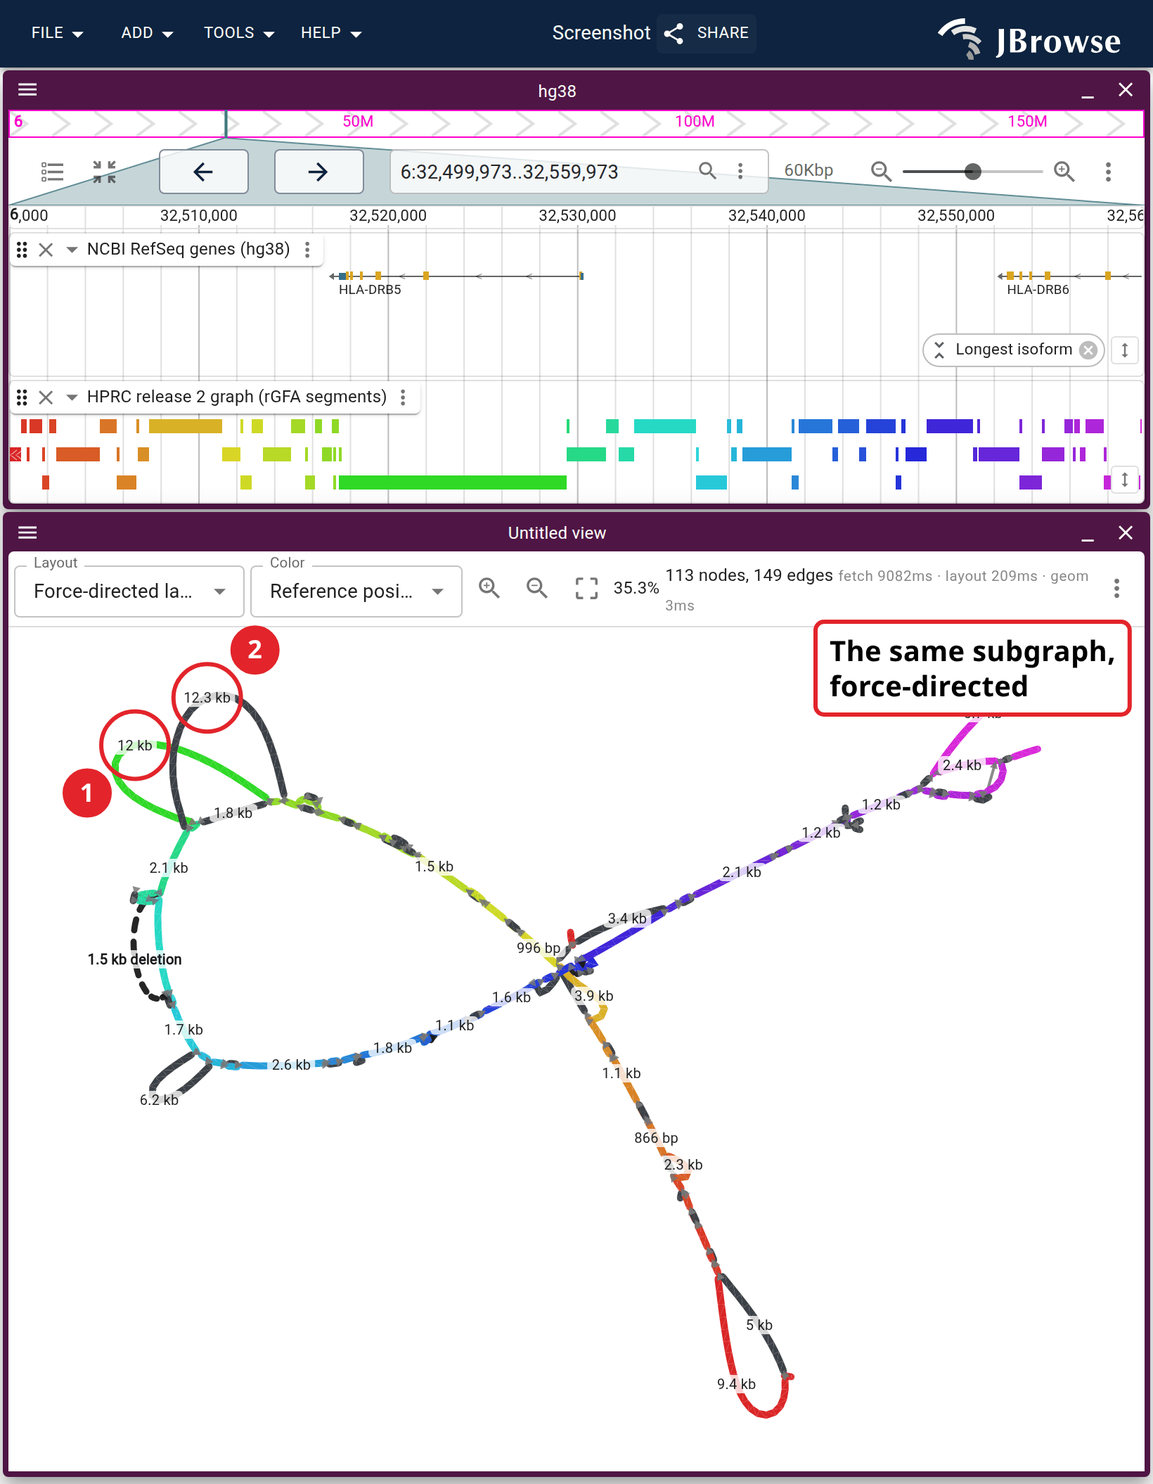
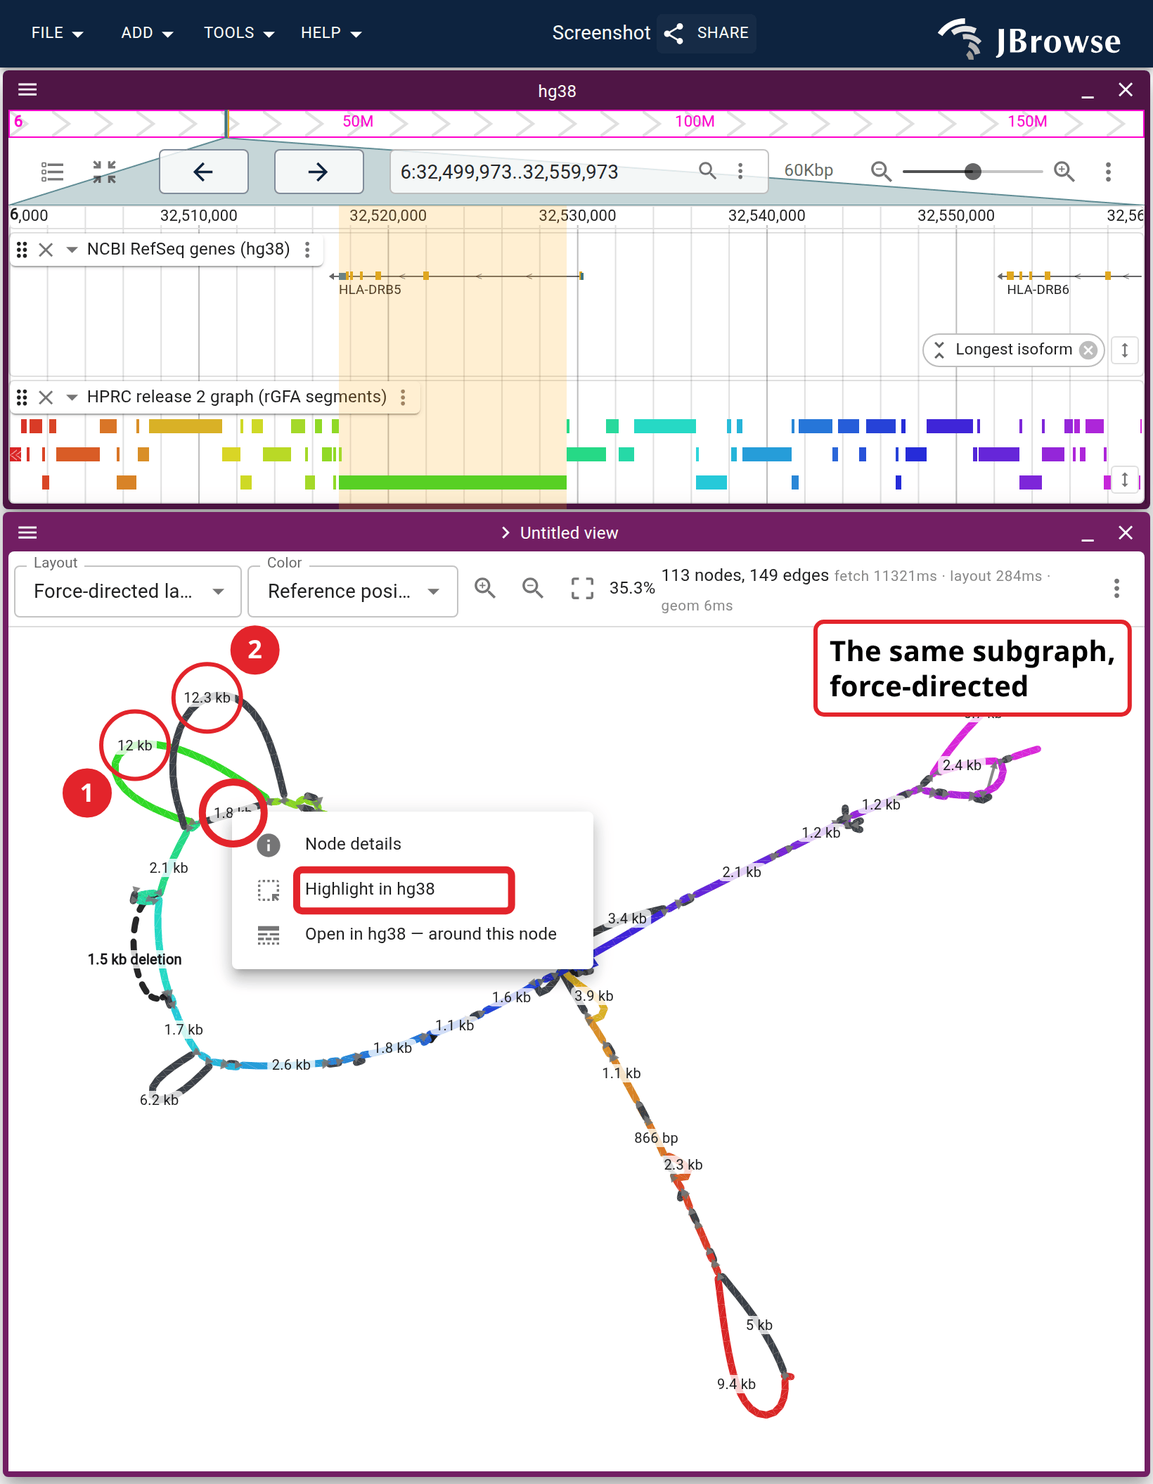
docs(figures): fold the HPRC node-menu figure into the layout pair
Reviewer: "may not need standalone figure combine with
pangenome/hprc_mhc_anchored". hprc_node_menu was the same window, the
same two tracks and the same force drawing as that pair's left half, with
a menu, one ring and a highlight band on top, so the HPRC tutorial drew
the MHC subgraph twice.

Those three things now live on the force half: it right-clicks the 1.8 kb
HG01433.2 allele, clicks Highlight in hg38, then right-clicks again so
the frame carries the menu over the band it already wrote. The node is
named through the view's nodePositions rather than measured, so a layout
change fails the capture instead of clicking empty canvas. The ring is
deliberately unnumbered, since 1 and 2 are the landmark pair shared
across the seam.

The spec, the PNG and the tutorial's second figure are gone; the section
that carried it points back at the layout figure, whose caption states
what the band is.

screenshot-review.json carries whatever verdicts were written in this
window, the reviewer's included.

Claude-Session: https://claude.ai/code/session_01TcfdgrcPWPN7HSGHfcRjTg

Changed region(s): [[0.0, 0.1232, 1.0, 1.0], [0.1555, 0.5237, 0.5287, 0.6777]]

diff --git a/website/scripts/specs/graph.ts b/website/scripts/specs/graph.ts
@@ -10,7 +10,11 @@ import { fileURLToPath } from 'node:url'
 import { sessionSpec } from '../screenshot-spec-helpers.ts'
 import { ECOLI_DEMO_BASE, usingLocalDemo } from './demoBase.ts'
 
-import type { Annotation, ScreenshotSpec } from '../screenshot-spec-types.ts'
+import type {
+  Annotation,
+  ScreenshotAction,
+  ScreenshotSpec,
+} from '../screenshot-spec-types.ts'
 
 // The url the tracked fixture configs hardcode, and what ECOLI_DEMO_BASE
 // replaces in them when it is set.
@@ -287,9 +291,10 @@ const PATHS_REGION = {
 // pangenome/rgfa_hover_sync` prints the ids a cut contains.
 const HOVERED_ALLELE = 's2037'
 
-// The off-reference allele pangenome/hprc_node_menu right-clicks, named rather
-// than measured — see HOVERED_ALLELE. `node scripts/probe-graph-nodes.ts
-// pangenome/hprc_node_menu` prints the cut's ids with their lengths and ranks.
+// The off-reference allele the force half of pangenome/hprc_mhc_anchored
+// right-clicks, named rather than measured — see HOVERED_ALLELE. `node
+// scripts/probe-graph-nodes.ts pangenome/hprc_mhc_layout_force` prints the
+// cut's ids with their lengths and ranks.
 //
 // It is 1,775 bp of HG01433 hap 2 (`CM086511.1:32,520,440-32,522,215` in the
 // links index), and the two backbone segments it hangs off are s101144, ending
@@ -298,17 +303,14 @@ const HOVERED_ALLELE = 's2037'
 // writes into the linear view. That is also, near exactly, HLA-DRB5
 // (chr6:32,517,353-32,530,287), the gene present only on DR51 haplotypes.
 //
-// Which is why the frame needs the callout below (review: "it looks like this is
+// Which is why the caption has to say it (review: "it looks like this is
 // highlighting a 'black' node, instead of the green one, which is, afaict, the
 // reference path"). Under the reference-position ramp black means "no reference
 // position", i.e. this IS the allele the figure is about, and the green 12 kb
 // node beside it is the reference segment the highlight lands on. Nothing in the
-// frame joined the two, so a ring on a black node over a band 12 kb wide read as
-// the wrong node being ringed.
+// frame joins the two, so a ring on a black node over a band 12 kb wide reads as
+// the wrong node being ringed unless the words are there.
 const HPRC_ALLELE = 's318599'
-const HPRC_ALLELE_LABEL =
-  'HG01433.2 allele: 1.8 kb\nwhere hg38 has 12 kb (HLA-DRB5)'
-
 // K12's genes, so the linear half of a launch figure says which genes the
 // clicked segment covers rather than being a lane of anonymous blocks. Hosted
 // beside the graph indexes; the fixture config carries only the assembly.
@@ -1716,9 +1718,20 @@ function mhcLayoutPartSpecs(): ScreenshotSpec[] {
     // offset would land on the drawing in one of them.
     labelOffset: { dx: number; dy: number },
     label: string,
+    // The force half additionally carries the right-click route, which used to
+    // be pangenome/hprc_node_menu, a whole second capture of this same window
+    // and this same drawing (reviewer: "may not need standalone figure combine
+    // with pangenome/hprc_mhc_anchored"). What it added over this half was the
+    // menu, one ring and the band the menu leaves behind, so it is those three
+    // things rather than a figure.
+    nodeMenu?: {
+      actions: ScreenshotAction[]
+      annotations: Annotation[]
+    },
   ): ScreenshotSpec => ({
     mode: 'url',
     name,
+    ...(nodeMenu ? { actions: nodeMenu.actions } : {}),
     url: sessionSpec(HPRC_CONFIG, {
       views: [
         {
@@ -1803,6 +1816,7 @@ function mhcLayoutPartSpecs(): ScreenshotSpec[] {
         maxWidth: 300,
         fontSize: 20,
       },
+      ...(nodeMenu?.annotations ?? []),
     ],
   })
   return [
@@ -1821,6 +1835,42 @@ function mhcLayoutPartSpecs(): ScreenshotSpec[] {
         dy: -276,
       },
       'The same subgraph, force-directed',
+      // THE RIGHT-CLICK ROUTE, folded in from the deleted hprc_node_menu.
+      // `Highlight in hg38` writes the node's reference interval into the
+      // linear view's own highlight list, where it stays — which is what lets
+      // one frame carry both the menu and its result: click the item, then
+      // right-click the same node again, so the menu stands over a band it
+      // already left behind. The node is NAMED (`anchor: { graphNode }`,
+      // resolved through the view's nodePositions), so a layout change fails
+      // the capture rather than clicking empty canvas.
+      {
+        actions: [
+          // the auto-fit has to have finished before the anchor means anything
+          { type: 'delay', ms: 2000 },
+          { type: 'rightclick', anchor: { view: 1, graphNode: HPRC_ALLELE } },
+          { type: 'waitForText', text: 'Highlight in hg38' },
+          { type: 'click', text: 'Highlight in hg38' },
+          { type: 'delay', ms: 1500 },
+          { type: 'rightclick', anchor: { view: 1, graphNode: HPRC_ALLELE } },
+          { type: 'waitForText', text: 'Node details' },
+          { type: 'delay', ms: 500 },
+        ],
+        annotations: [
+          // which node the menu was opened on: a context menu opens AT the
+          // cursor, so it covers the thing it was opened on, and a force
+          // drawing has no row label to fall back on. Unnumbered, unlike the
+          // two landmark badges — it is a third node and the caption names it
+          // rather than pairing it across the seam.
+          {
+            type: 'circle',
+            anchor: { view: 1, graphNode: HPRC_ALLELE },
+            radius: 22,
+          },
+          // the item that produced the band. Without it the frame holds a menu
+          // and a highlight with nothing joining them.
+          { type: 'box', anchor: { text: 'Highlight in hg38' } },
+        ],
+      },
     ),
     // the one-hop default cut brings in more nodes than the old None cut, so
     // the anchored pane grew past the 775 this used to need. Its label goes in
@@ -3590,109 +3640,16 @@ export const graphSpecs: ScreenshotSpec[] = [
     ],
   },
 
-  // The other half of the way out, on the graph where the contributing
-  // assemblies are NOT loadable: right-clicking one haplotype's allele. Its own
-  // coordinate is exact and unopenable (no session loads 464 haplotypes as
-  // assemblies), so what the menu offers is the GRCh38 interval the allele
-  // attaches to, which is the answer the HPRC tutorial's round trip needs.
-  //
-  // One frame holding both the menu and its result. Review: "need to be able to
-  // just highlight lineargenomeview coords", then "make into a single
-  // screenshot instead of two screenshots potentially where highlight and right
-  // click menu is visible". Hovering a node already draws a band in the linear
-  // view, but a hover band lives as long as the pointer does; **Highlight in
-  // hg38** writes the same interval into the view's own highlight list, where it
-  // stays. That persistence is what lets one frame carry both: the actions click
-  // the item, then right-click the same node again, so the menu is open over a
-  // band it already left behind. Two stacked frames paid for the whole app
-  // chrome twice to say that.
-  //
-  // The force-directed drawing, per review ("please change to force directed
-  // bandage graph"). The right-clicked node is NAMED rather than measured
-  // (`anchor: { graphNode }`, resolved through the view's own nodePositions), so
-  // the layout, the pane size and the tracks above the graph can all move
-  // without silently pointing the click at empty canvas. An anchor that resolves
-  // to nothing throws, and the waitForText below fails the capture rather than
-  // committing a figure of an unopened menu.
-  {
-    mode: 'url',
-    name: 'pangenome/hprc_node_menu',
-    url: sessionSpec(HPRC_CONFIG, {
-      views: [
-        {
-          type: 'LinearGenomeView',
-          assembly: 'hg38',
-          loc: 'chr6:32,500,000-32,560,000',
-          tracks: [
-            {
-              trackId: 'hg38_ncbiRefSeq_ucsc',
-              type: 'LinearBasicDisplay',
-              // compact, as in the other HPRC figures: two HLA-DRB genes do not
-              // need a lane of their own, and every px here is one the graph
-              // rows under it do not get
-              geneGlyphMode: 'longestCoding',
-              displayMode: 'compact',
-              height: 60,
-            },
-            hprcSegmentsLane(MHC_REGION),
-          ],
-        },
-        {
-          type: 'GraphGenomeView',
-          loadedTrackId: SEGMENTS_TRACK,
-          loadedRegion: MHC_REGION,
-          colorScheme: 'reference-position',
-        },
-      ],
-    }),
-    readySelector: TOOLBAR_READY,
-    readyTimeout: 90000,
-    settleMs: 3000,
-    viewportWidth: 1000,
-    viewportHeight: 1100,
-    actions: [
-      // the auto-fit has to have finished before the anchor means anything
-      { type: 'delay', ms: 2000 },
-      { type: 'rightclick', anchor: { view: 1, graphNode: HPRC_ALLELE } },
-      { type: 'waitForText', text: 'Highlight in hg38' },
-      { type: 'click', text: 'Highlight in hg38' },
-      // the band is written into the view's highlight list, and the menu closes
-      { type: 'delay', ms: 1500 },
-      // the same node again, so the frame carries the menu and the band it left
-      { type: 'rightclick', anchor: { view: 1, graphNode: HPRC_ALLELE } },
-      { type: 'waitForText', text: 'Node details' },
-      { type: 'delay', ms: 500 },
-    ],
-    // The item that produced the band, boxed. Without it the frame holds a menu
-    // and a highlight with nothing joining them, and which of three items did it
-    // is a guess — the same complaint the launch figures drew in review. The ring
-    // says which node: a context menu opens AT the cursor, so it covers the thing
-    // it was opened on, and in a force drawing there is no row label to fall back
-    // on.
-    //
-    // The label is what the ring alone could not say (see HPRC_ALLELE): both
-    // numbers are the graph's own, so the frame states that a 1.8 kb node ringed
-    // in black produced a 12 kb band, rather than leaving the mismatch to be read
-    // as the wrong node being ringed. Placed up and left of the node, which is
-    // the empty corner of this drawing; the menu takes the other side.
-    annotations: [
-      {
-        type: 'circle',
-        anchor: { view: 1, graphNode: HPRC_ALLELE },
-        radius: 22,
-      },
-      {
-        type: 'text',
-        text: HPRC_ALLELE_LABEL,
-        anchor: { view: 1, graphNode: HPRC_ALLELE },
-        dx: -120,
-        dy: -170,
-        maxWidth: 230,
-        fontSize: 16,
-      },
-      { type: 'box', anchor: { text: 'Highlight in hg38' } },
-    ],
-  },
+  // pangenome/hprc_node_menu was here and is DELETED (reviewer: "may not need
+  // standalone figure combine with pangenome/hprc_mhc_anchored"). It was the
+  // same window, the same tracks and the same force drawing as that pair's left
+  // half, with a menu, one ring and the band the menu leaves behind on top —
+  // so those three things moved onto the half itself (see mhcLayoutPartSpecs)
+  // and the second capture of the MHC subgraph went away. The claim they carry
+  // is unchanged: `Highlight in hg38` on a 1.8 kb HG01433.2 allele writes the
+  // 12 kb GRCh38 backbone segment it attaches across, which is HLA-DRB5,
+  // because an off-reference node is drawn over the reference it replaces and
+  // never over its own length.
 
   // The way back out of the graph, on the one fixture where it can do more than
   // return to the reference: all five strains loaded as assemblies, so the graph

diff --git a/website/src/lib/galleryLinks.generated.ts b/website/src/lib/galleryLinks.generated.ts
@@ -280,7 +280,6 @@ export const specSessionUrls: Record<string, string> = {
   "pangenome/hprc_lpa_kiv2": "?config=test_data/graphgenomeview/hprc.json&session=spec-%7B%22views%22%3A%5B%7B%22type%22%3A%22LinearGenomeView%22%2C%22assembly%22%3A%22hg38%22%2C%22loc%22%3A%22chr6%3A160%2C525%2C000-160%2C655%2C000%22%2C%22tracks%22%3A%5B%7B%22trackId%22%3A%22hg38_ncbiRefSeq_ucsc%22%2C%22type%22%3A%22LinearBasicDisplay%22%2C%22geneGlyphMode%22%3A%22longestCoding%22%2C%22displayMode%22%3A%22compact%22%2C%22height%22%3A70%7D%2C%7B%22trackId%22%3A%22hprc_minigraph_bubbles%22%2C%22type%22%3A%22LinearBasicDisplay%22%2C%22height%22%3A80%7D%2C%7B%22trackId%22%3A%22hprc_minigraph_segments%22%2C%22type%22%3A%22LinearBasicDisplay%22%2C%22showLabels%22%3A%22none%22%2C%22heightMode%22%3A%22grow%22%2C%22color%22%3A%22jexl%3Aget(feature%2C'rank')%3E0%20%3F%20'rgb(60%2C65%2C72)'%20%3A%20'hsl('%20%2B%20min(300%2C%20max(0%2C%20((get(feature%2C'start')%2Bget(feature%2C'end'))%2F2%20-%20160525000)%20%2F%20130000%20*%20300))%20%2B%20'%2C70%25%2C50%25)'%22%7D%5D%7D%2C%7B%22type%22%3A%22GraphGenomeView%22%2C%22loadedTrackId%22%3A%22hprc_minigraph_segments%22%2C%22loadedRegion%22%3A%7B%22refName%22%3A%22chr6%22%2C%22assemblyName%22%3A%22hg38%22%2C%22start%22%3A160525000%2C%22end%22%3A160655000%7D%2C%22layoutMode%22%3A%22force%22%2C%22colorScheme%22%3A%22reference-position%22%7D%5D%7D&sessionName=Screenshot",
   "pangenome/hprc_graph_vs_callset": "?config=test_data/graphgenomeview/hprc.json&session=spec-%7B%22views%22%3A%5B%7B%22type%22%3A%22LinearGenomeView%22%2C%22assembly%22%3A%22hg38%22%2C%22loc%22%3A%22chr6%3A32%2C510%2C000-32%2C600%2C000%22%2C%22highlight%22%3A%5B%226%3A32%2C514%2C842-32%2C529%2C438%22%5D%2C%22tracks%22%3A%5B%7B%22trackId%22%3A%22hg38_ncbiRefSeq_ucsc%22%2C%22type%22%3A%22LinearBasicDisplay%22%2C%22geneGlyphMode%22%3A%22longestCoding%22%2C%22displayMode%22%3A%22compact%22%2C%22height%22%3A60%7D%2C%7B%22trackId%22%3A%22hprc_minigraph_segments%22%2C%22type%22%3A%22LinearBasicDisplay%22%2C%22showLabels%22%3A%22none%22%2C%22heightMode%22%3A%22grow%22%2C%22color%22%3A%22jexl%3Aget(feature%2C'rank')%3E0%20%3F%20'rgb(60%2C65%2C72)'%20%3A%20'hsl('%20%2B%20min(300%2C%20max(0%2C%20((get(feature%2C'start')%2Bget(feature%2C'end'))%2F2%20-%2032510000)%20%2F%2090000%20*%20300))%20%2B%20'%2C70%25%2C50%25)'%22%7D%2C%7B%22trackId%22%3A%22hprc2_wave_grch38%22%2C%22type%22%3A%22LinearMultiSampleVariantDisplay%22%2C%22height%22%3A340%2C%22jexlFilters%22%3A%5B%22jexl%3Afeature.INFO.LV%5B0%5D%3D%3D0%20%26%26%20alleleLength(feature)%3E%3D50%22%5D%2C%22runClustering%22%3Atrue%7D%5D%7D%2C%7B%22type%22%3A%22GraphGenomeView%22%2C%22loadedTrackId%22%3A%22hprc_minigraph_segments%22%2C%22loadedRegion%22%3A%7B%22refName%22%3A%22chr6%22%2C%22assemblyName%22%3A%22hg38%22%2C%22start%22%3A32510000%2C%22end%22%3A32600000%7D%2C%22colorScheme%22%3A%22reference-position%22%7D%5D%7D&sessionName=Screenshot",
   "pangenome/rgfa_hover_sync": "?config=test_data/graphgenomeview/config.json&session=spec-%7B%22sessionTracks%22%3A%5B%7B%22type%22%3A%22FeatureTrack%22%2C%22trackId%22%3A%22K12_genes%22%2C%22name%22%3A%22K12%20genes%22%2C%22assemblyNames%22%3A%5B%22K12%22%5D%2C%22adapter%22%3A%7B%22type%22%3A%22Gff3TabixAdapter%22%2C%22gffGzLocation%22%3A%7B%22uri%22%3A%22https%3A%2F%2Fjbrowse.org%2Fdemos%2Fecoli_pangenome%2FK12.gff.gz%22%7D%2C%22index%22%3A%7B%22location%22%3A%7B%22uri%22%3A%22https%3A%2F%2Fjbrowse.org%2Fdemos%2Fecoli_pangenome%2FK12.gff.gz.tbi%22%7D%7D%7D%7D%2C%7B%22type%22%3A%22FeatureTrack%22%2C%22trackId%22%3A%22ecoli_minigraph_segments%22%2C%22name%22%3A%22minigraph%20graph%20segments%20(rGFA)%22%2C%22assemblyNames%22%3A%5B%22K12%22%5D%2C%22adapter%22%3A%7B%22type%22%3A%22RgfaTabixAdapter%22%2C%22uri%22%3A%22https%3A%2F%2Fjbrowse.org%2Fdemos%2Fecoli_pangenome%2Fecoli_minigraph%22%7D%2C%22displayDefaults%22%3A%7B%22color%22%3A%22jexl%3Aget(feature%2C'rank')%3D%3D0%3F'rgb(52%2C152%2C219)'%3A'rgb(237%2C137%2C44)'%22%7D%7D%5D%2C%22views%22%3A%5B%7B%22type%22%3A%22LinearGenomeView%22%2C%22assembly%22%3A%22K12%22%2C%22loc%22%3A%22chr%3A1%2C088%2C000-1%2C104%2C000%22%2C%22tracks%22%3A%5B%7B%22trackId%22%3A%22K12_genes%22%2C%22type%22%3A%22LinearBasicDisplay%22%2C%22height%22%3A70%7D%2C%7B%22trackId%22%3A%22ecoli_minigraph_segments%22%2C%22type%22%3A%22LinearBasicDisplay%22%2C%22height%22%3A80%2C%22color%22%3A%22jexl%3Aget(feature%2C'rank')%3E0%20%3F%20'rgb(60%2C65%2C72)'%20%3A%20'hsl('%20%2B%20min(300%2C%20max(0%2C%20((get(feature%2C'start')%2Bget(feature%2C'end'))%2F2%20-%201088000)%20%2F%2016000%20*%20300))%20%2B%20'%2C70%25%2C50%25)'%22%7D%5D%7D%2C%7B%22type%22%3A%22GraphGenomeView%22%2C%22loadedTrackId%22%3A%22ecoli_minigraph_segments%22%2C%22loadedRegion%22%3A%7B%22refName%22%3A%22chr%22%2C%22assemblyName%22%3A%22K12%22%2C%22start%22%3A1088000%2C%22end%22%3A1104000%7D%2C%22colorScheme%22%3A%22reference-position%22%7D%5D%7D&sessionName=Screenshot",
-  "pangenome/hprc_node_menu": "?config=test_data/graphgenomeview/hprc.json&session=spec-%7B%22views%22%3A%5B%7B%22type%22%3A%22LinearGenomeView%22%2C%22assembly%22%3A%22hg38%22%2C%22loc%22%3A%22chr6%3A32%2C500%2C000-32%2C560%2C000%22%2C%22tracks%22%3A%5B%7B%22trackId%22%3A%22hg38_ncbiRefSeq_ucsc%22%2C%22type%22%3A%22LinearBasicDisplay%22%2C%22geneGlyphMode%22%3A%22longestCoding%22%2C%22displayMode%22%3A%22compact%22%2C%22height%22%3A60%7D%2C%7B%22trackId%22%3A%22hprc_minigraph_segments%22%2C%22type%22%3A%22LinearBasicDisplay%22%2C%22showLabels%22%3A%22none%22%2C%22heightMode%22%3A%22grow%22%2C%22color%22%3A%22jexl%3Aget(feature%2C'rank')%3E0%20%3F%20'rgb(60%2C65%2C72)'%20%3A%20'hsl('%20%2B%20min(300%2C%20max(0%2C%20((get(feature%2C'start')%2Bget(feature%2C'end'))%2F2%20-%2032500000)%20%2F%2060000%20*%20300))%20%2B%20'%2C70%25%2C50%25)'%22%7D%5D%7D%2C%7B%22type%22%3A%22GraphGenomeView%22%2C%22loadedTrackId%22%3A%22hprc_minigraph_segments%22%2C%22loadedRegion%22%3A%7B%22refName%22%3A%22chr6%22%2C%22assemblyName%22%3A%22hg38%22%2C%22start%22%3A32500000%2C%22end%22%3A32560000%7D%2C%22colorScheme%22%3A%22reference-position%22%7D%5D%7D&sessionName=Screenshot",
   "pangenome/rgfa_launch_out_menu": "?config=test_data/graphgenomeview/ecoli_pangenome.json&session=spec-%7B%22views%22%3A%5B%7B%22id%22%3A%22launch_out_graph%22%2C%22type%22%3A%22GraphGenomeView%22%2C%22loadedTrackId%22%3A%22ecoli_minigraph_segments%22%2C%22loadedRegion%22%3A%7B%22refName%22%3A%22chr%22%2C%22assemblyName%22%3A%22K12%22%2C%22start%22%3A4400000%2C%22end%22%3A4450000%7D%2C%22layoutMode%22%3A%22force%22%2C%22colorScheme%22%3A%22stable-rank%22%7D%5D%7D&sessionName=Screenshot",
   "pangenome/rgfa_strain_launch": "?config=test_data/graphgenomeview/ecoli_pangenome.json&session=spec-%7B%22views%22%3A%5B%7B%22id%22%3A%22pks_graph%22%2C%22type%22%3A%22GraphGenomeView%22%2C%22loadedTrackId%22%3A%22ecoli_minigraph_segments%22%2C%22loadedRegion%22%3A%7B%22refName%22%3A%22chr%22%2C%22assemblyName%22%3A%22K12%22%2C%22start%22%3A2056000%2C%22end%22%3A2064000%7D%2C%22layoutMode%22%3A%22force%22%2C%22colorScheme%22%3A%22stable-rank%22%7D%5D%7D&sessionName=Screenshot",
   "cookbook_color_by_strand": "?config=test_data/config_demo.json&session=spec-%7B%22views%22%3A%5B%7B%22type%22%3A%22LinearGenomeView%22%2C%22assembly%22%3A%22hg38%22%2C%22loc%22%3A%22chr17%3A7%2C400%2C000-7%2C700%2C000%22%2C%22tracks%22%3A%5B%7B%22trackId%22%3A%22ncbi_refseq_109_hg38%22%2C%22height%22%3A260%2C%22color%22%3A%22jexl%3Afeature.strand%3D%3D1%3F'%231f77b4'%3A'%23d62728'%22%7D%5D%7D%5D%7D&sessionName=Screenshot",

diff --git a/website/scripts/probe-graph-nodes.ts b/website/scripts/probe-graph-nodes.ts
@@ -2,7 +2,7 @@
 /**
  * probe-graph-nodes.ts — dump the nodes a GraphGenomeView spec actually draws.
  *
- *   node scripts/probe-graph-nodes.ts pangenome/hprc_node_menu [--view=1]
+ *   node scripts/probe-graph-nodes.ts pangenome/hprc_mhc_layout_force [--view=1]
  *
  * A graph is one canvas, so a spec that clicks/hovers a node has to name it
  * (`anchor: { graphNode }`). Which ids the cut contains is a property of the

diff --git a/website/docs/tutorials/pangenome_hprc.md b/website/docs/tutorials/pangenome_hprc.md
@@ -315,7 +315,7 @@ The [guide](/docs/user_guides/graph_genome_view#three-layouts) sets out what the
 three modes put on each axis. What that costs at this scale is the same MHC
 class II window drawn both ways:
 
-<Figure caption="One MHC class II subgraph drawn both ways, same window and same tracks above it. Left, force-directed: the drawing is the graph's shape and nothing in it lines up with the linear view. Right, anchored: every x is a GRCh38 coordinate, so the backbone is one straight line and each allele hangs below where it attaches, stacked by rank. Rings 1 and 2 are the same two nodes in both halves, a 12 kb reference stretch and the 12.3 kb allele over it: touching in the force drawing, rows apart on the anchored one." src="/img/pangenome/hprc_mhc_anchored.png" links="Force-directed=pangenome/hprc_mhc_layout_force,Anchored=pangenome/hprc_mhc_layout_anchored" />
+<Figure caption="One MHC class II subgraph drawn both ways, same window and same tracks above it. Left, force-directed: the drawing is the graph's shape and nothing in it lines up with the linear view. Right, anchored: every x is a GRCh38 coordinate, so the backbone is one straight line and each allele hangs below where it attaches, stacked by rank. Rings 1 and 2 are the same two nodes in both halves, a 12 kb reference stretch and the 12.3 kb allele over it: touching in the force drawing, rows apart on the anchored one. The unnumbered ring on the left is a third node, a 1.8 kb allele whose right-click menu is open; Highlight in hg38 wrote the orange band above it, the 12 kb backbone segment it attaches across." src="/img/pangenome/hprc_mhc_anchored.png" links="Force-directed=pangenome/hprc_mhc_layout_force,Anchored=pangenome/hprc_mhc_layout_anchored" />
 
 Each locus below is a window small enough to draw:
 
@@ -398,7 +398,11 @@ At HPRC scale the answer is a published file rather than a rebuild:
 is one record per snarl with a genotype per haplotype, so the site under the
 node you clicked states who walks it.
 
-<Figure caption="Right-clicking one haplotype's allele (circled), over the band Highlight in hg38 left in the linear view above. The band it produces is the 12 kb backbone segment the allele attaches across, which here is HLA-DRB5." src="/img/pangenome/hprc_node_menu.png" />
+That route is drawn in the [layout figure above](#the-layout-dropdown): its left
+half has the menu open on a 1.8 kb HG01433.2 allele, the black node ringed
+without a number, over the band **Highlight in hg38** left in the linear view.
+The band is the 12 kb backbone segment that allele attaches across, which here
+is _HLA-DRB5_.
 
 The lanes above combine into one route: rubberband a locus into a graph,
 right-click an allele to put the linear view on its GRCh38 interval, then read
